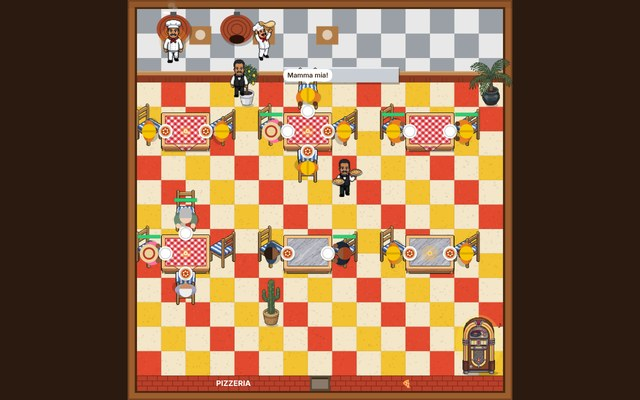
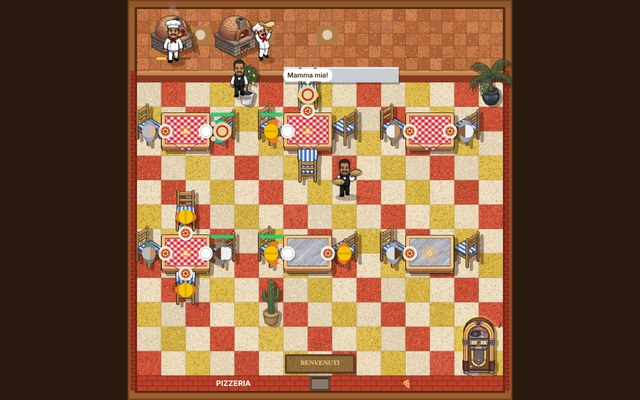
Pizzabaas: warmere sfeer (gespikkelde vloer, terracotta keuken, bakstenen muren, schaduwen, deurmat) en kassageluid
Claude-Session: https://claude.ai/code/session_01A1NZDKEqH4AvFTuhgNYDbP

Changed region(s): [[0.1875, 0.0, 0.8125, 0.99]]

diff --git a/pizzabaas.html b/pizzabaas.html
@@ -126,6 +126,7 @@ const schrijf = (k, v) => { try { localStorage.setItem(k, JSON.stringify(v)); } 
 const W = 15, H = 15, T = 48;         // 15 x 15 vloertegels (zoals in het oude spel), pixels per tegel
 const KEUKEN = 3;                     // rijen 0 t/m 2 zijn de keuken
 const DEUR = { x: 7, y: 15 };         // de deur zit in de onderste muur
+const MAT = { x: 6, y: 14, w: 3 };    // deurmat voor de deur: daar kan je niets neerzetten
 const DAG = 120;                      // seconden per werkdag
 const HUUR = 60, LOON = 15, PRIJS = 9, BAKTIJD = 5, ETEN = 8, GEDULD = 25;
 
@@ -246,7 +247,7 @@ const vrij = (x, y, w, h, behalve) => {
   for (let i = 0; i < w; i++) for (let j = 0; j < h; j++) {
     const a = x + i, b = y + j;
     if (a < 0 || a >= W || b < KEUKEN || b >= H) return false;
-    if (a == DEUR.x && b == DEUR.y - 1) return false; // voor de deur vrijhouden
+    if (b == MAT.y && a >= MAT.x && a < MAT.x + MAT.w) return false; // de deurmat vrijhouden
     for (const s of S.spullen) if (s != behalve && a >= s.x && a < s.x + SPUL[s.t].w && b >= s.y && b < s.y + SPUL[s.t].h) return false;
   }
   return true;
@@ -267,12 +268,15 @@ function gezellig(s) { // 1 tot 6 sterretjes
   if (S.spullen.some((p) => p.t == 'jukebox')) g += 1;
   return g;
 }
-// de jukebox is 2 x 2 geworden: staat hij in oude opslag ergens waar dat niet past, dan een vrije plek zoeken (of terugbetalen)
-for (const j of S.spullen.filter((s) => s.t == 'jukebox')) if (!vrij(j.x, j.y, 2, 2, j)) {
-  let plek = null;
-  for (let y = H - 2; y >= KEUKEN && !plek; y--) for (let x = W - 2; x >= 0 && !plek; x--) if (vrij(x, y, 2, 2, j)) plek = { x, y };
-  if (plek) Object.assign(j, plek); else { S.spullen.splice(S.spullen.indexOf(j), 1); S.geld += SPUL.jukebox.prijs; }
+// staat iets in oude opslag ergens waar het niet (meer) past (jukebox werd 2 x 2, deurmat erbij), dan een vrije plek zoeken (of terugbetalen)
+function repareer() {
+  for (const j of [...S.spullen]) { const d = SPUL[j.t]; if (vrij(j.x, j.y, d.w, d.h, j)) continue;
+    let plek = null;
+    for (let y = H - d.h; y >= KEUKEN && !plek; y--) for (let x = W - d.w; x >= 0 && !plek; x--) if (vrij(x, y, d.w, d.h, j)) plek = { x, y };
+    if (plek) Object.assign(j, plek); else { S.spullen.splice(S.spullen.indexOf(j), 1); S.geld += d.prijs; }
+  }
 }
+repareer();
 const gemGezellig = () => { const t = S.spullen.filter(isTafel); return t.length ? t.reduce((a, s) => a + gezellig(s), 0) / t.length : 0; };
 
 // ---------- de dag ----------
@@ -550,16 +554,30 @@ const achter = document.createElement('canvas'); achter.width = WW; achter.heigh
 (function tekenAchter() {
   const a = achter.getContext('2d');
   let zaad = 7; const rnd = () => (zaad = (zaad * 16807) % 2147483647) / 2147483647;
-  // vloer: tegeltjes van een half vakje, om en om wit met rood of geel
-  const t = T;
-  for (let y = KEUKEN; y < H; y++) for (let x = 0; x < W; x++) {
-    a.fillStyle = (x + y) % 2 ? '#f3e6c9' : (Math.floor(x / 2) + Math.floor(y / 2)) % 2 ? '#e2492f' : '#f2c230';
-    a.fillRect(x * t, y * t, t, t);
-    for (let k = 0; k < 30; k++) { a.fillStyle = `rgba(${rnd() < 0.5 ? '0,0,0' : '255,255,255'},${0.05 + rnd() * 0.08})`; a.fillRect(x * t + rnd() * t, y * t + rnd() * t, 2, 2); }
-    a.fillStyle = 'rgba(0,0,0,.08)'; a.fillRect(x * t, y * t + t - 1, t, 1); a.fillRect(x * t + t - 1, y * t, 1, t);
+  // vloer zoals het origineel: tegels van een vakje, om en om crème met rood of geel, doffe kleuren vol spikkels
+  const t = T, h = T;
+  const TEGELS = [['#ecdcbe', '#d6c09a', '#f6ead2'], ['#cf5338', '#a83a24', '#e2765a'], ['#dcb848', '#b8952a', '#ecd06e']]; // [kleur, donker, licht]
+  for (let j = KEUKEN; j < H; j++) for (let i = 0; i < W; i++) {
+    const [kl, dk, lc] = TEGELS[(i + j) % 2 ? 0 : (Math.floor(i / 2) + Math.floor(j / 2)) % 2 ? 1 : 2];
+    const x = i * h, y = j * h;
+    a.fillStyle = kl; a.fillRect(x, y, h, h);
+    a.fillStyle = `rgba(${rnd() < 0.5 ? '0,0,0' : '255,255,255'},${rnd() * 0.06})`; a.fillRect(x, y, h, h); // elke tegel net iets anders
+    for (let k = 0; k < 110; k++) { a.fillStyle = rnd() < 0.6 ? dk : lc; a.fillRect(x + Math.floor(rnd() * (h - 2)), y + Math.floor(rnd() * (h - 2)), 2, 2); }
+    a.fillStyle = 'rgba(70,35,15,.22)'; a.fillRect(x, y + h - 1, h, 1); a.fillRect(x + h - 1, y, 1, h); // voegen
   }
-  // keuken: grijs-witte tegels
-  for (let y = 0; y < KEUKEN; y++) for (let x = 0; x < W; x++) { a.fillStyle = (x + y) % 2 ? '#e8e8e8' : '#9aa0a6'; a.fillRect(x * t, y * t, t, t); }
+  // deurmat voor de deur (daar mag niets staan: MAT)
+  a.fillStyle = 'rgba(0,0,0,.25)'; a.fillRect(MAT.x * T + 6, MAT.y * T + 10, MAT.w * T - 6, T - 12);
+  a.fillStyle = '#5a3f22'; a.fillRect(MAT.x * T + 3, MAT.y * T + 6, MAT.w * T - 6, T - 10);
+  a.fillStyle = '#8f6a3c'; a.fillRect(MAT.x * T + 7, MAT.y * T + 10, MAT.w * T - 14, T - 18);
+  for (let k = 0; k < 500; k++) { a.fillStyle = rnd() < 0.5 ? '#7a5730' : '#a37d4a'; a.fillRect(MAT.x * T + 7 + rnd() * (MAT.w * T - 16), MAT.y * T + 10 + rnd() * (T - 20), 2, 1); }
+  a.fillStyle = '#f2d27a'; a.font = 'bold 13px Georgia, serif'; a.textAlign = 'center'; a.fillText('BENVENUTI', (MAT.x + MAT.w / 2) * T, MAT.y * T + T / 2 + 3);
+  // keuken: kleine terracotta tegeltjes
+  for (let j = 0; j < KEUKEN * 2; j++) for (let i = 0; i < W * 2; i++) {
+    const x = i * T / 2, y = j * T / 2, d = T / 2; a.fillStyle = (i + j) % 2 ? '#b8683c' : '#c97a48'; a.fillRect(x, y, d, d);
+    a.fillStyle = `rgba(${rnd() < 0.5 ? '0,0,0' : '255,255,255'},${rnd() * 0.08})`; a.fillRect(x, y, d, d);
+    for (let k = 0; k < 14; k++) { a.fillStyle = rnd() < 0.6 ? '#9c5530' : '#d8925f'; a.fillRect(x + Math.floor(rnd() * (d - 2)), y + Math.floor(rnd() * (d - 2)), 2, 2); }
+    a.fillStyle = 'rgba(60,25,10,.35)'; a.fillRect(x, y + d - 1, d, 1); a.fillRect(x + d - 1, y, 1, d);
+  }
   // werkbanken met deeg en meel
   for (let i = 0; i < 3; i++) { const [bx, by] = BANK(i); a.fillStyle = '#b07a45'; a.fillRect((bx - 0.45) * T, (by - 1.3) * T, 0.9 * T, 0.75 * T); a.fillStyle = 'rgba(255,255,255,.6)'; a.beginPath(); a.arc(bx * T, (by - 0.95) * T, 10, 0, 7); a.fill(); }
   // toonbank: houten blad op bakstenen
@@ -647,6 +665,7 @@ function figuur(img, p, bijzonder, rug, achter) {
     }
   }
   const h = 1.85 * T, w = h * sw / SH;
+  g.fillStyle = 'rgba(40,15,5,.28)'; g.beginPath(); g.ellipse(7, 5, w * 0.3, 7, 0, 0, 7); g.fill(); // schaduw onder de voeten
   g.save(); if (spiegel) g.scale(-1, 1);
   if (achter) { g.save(); g.translate(0, 6); g.scale(h / SH, h / SH); achter(); g.restore(); } // iets achter het figuurtje (in vakjes-pixels, voeten op y = 0)
   g.drawImage(img, f * sw, 0, sw, SH, -w / 2, -h + 6, w, h);
@@ -691,13 +710,19 @@ function teken(nu) {
   g.strokeStyle = 'rgba(0,0,0,.18)'; g.lineWidth = 1; for (let i = 0; i < 6; i++) { g.beginPath(); g.moveTo(-RAND, -RAND + 3 + i * 2.5); g.lineTo(WW + RAND, -RAND + 3 + i * 2.5); g.stroke(); }
   g.fillStyle = '#4a2810'; g.fillRect(-4, -4, WW + 8, WH + 8);
   g.drawImage(achter, 0, 0);
+  // bakstenen muren links en rechts van de zaal (in de binnenrand van het kader)
+  for (const mx of [-13, WW]) {
+    g.fillStyle = '#9c3522'; g.fillRect(mx, KEUKEN * T - 22, 13, WH - KEUKEN * T + 22);
+    g.fillStyle = '#6e1f10'; for (let y = KEUKEN * T - 22, r = 0; y < WH; y += 8, r++) { g.fillRect(mx, y, 13, 1); g.fillRect(mx + (r % 2 ? 4 : 9), y, 1, 8); }
+    g.fillStyle = 'rgba(0,0,0,.25)'; g.fillRect(mx == WW ? WW : -3, KEUKEN * T - 22, 3, WH - KEUKEN * T + 22); // schaduw langs de vloer
+  }
   // ovens: stenen koepels met vuur
   const ovs = modus == 'inrichten' ? Array.from({ length: S.ovens }, (_, i) => maakOven(i)) : ovens;
   for (const o of ovs) {
     if (OVENS.complete && OVENS.naturalWidth) { // Gemini-oven: 0 uit, 1 met vuur (bakken), 2 pizza op de schep (inschuiven)
       const w = 1.9 * T, x0 = o.x * T - w / 2, y0 = 1.95 * T - w, f = o.fase == 'bak' ? 1 : o.fase == 'inschuiven' ? 2 : 0;
       if (f == 1) { g.fillStyle = `rgba(255,150,40,${0.18 + Math.sin(nu / 90) * 0.06})`; g.beginPath(); g.arc(x0 + w * 0.6, y0 + w * 0.6, w * 0.42, 0, 7); g.fill(); }
-      g.drawImage(OVENS, f * 150, 0, 150, 150, x0, y0, w, w);
+      metSchaduw(OVENS, f * 150, 0, 150, 150, x0, y0, w, w);
       if (f == 1) {
         g.fillStyle = 'rgba(0,0,0,.35)'; g.fillRect(x0 + 12, y0 + w + 1, w - 24, 5); g.fillStyle = '#ffd23f'; g.fillRect(x0 + 12, y0 + w + 1, (w - 24) * Math.min(1, o.t / (BAKTIJD - DEEG)), 5); // hoe lang nog
         for (let k = 0; k < 3; k++) { const fr = ((nu / 900 + k / 3) % 1); g.fillStyle = `rgba(200,200,200,${0.45 * (1 - fr)})`; g.beginPath(); g.arc(x0 + w * 0.52 + Math.sin(fr * 6 + k) * 4, y0 + w * 0.1 - fr * 22, 4 + fr * 6, 0, 7); g.fill(); }
@@ -771,8 +796,8 @@ function stoel(x, y, hoek) { // van bovenaf: houten stoeltje met gestreepte zitt
 function tekenKlein(s, nu) {
   const x = 0, y = 0;
   if (s.t == 'plant' && PLANTEN.complete && PLANTEN.naturalWidth) { // Gemini-planten: 0 plantje, 1 palm, 2 citroenboompje, 3 cactus (s.v)
-    const k = 0.77; g.fillStyle = 'rgba(0,0,0,.2)'; g.beginPath(); g.ellipse(35, 60, 16, 5, 0, 0, 7); g.fill();
-    g.drawImage(PLANTEN, (s.v || 0) * 150, 0, 150, 160, 32 - 75 * k, 62 - 160 * k, 150 * k, 160 * k);
+    const k = 0.77;
+    metSchaduw(PLANTEN, (s.v || 0) * 150, 0, 150, 160, 32 - 75 * k, 62 - 160 * k, 150 * k, 160 * k, 8);
     return;
   }
   if (s.t == 'plant') {
@@ -784,9 +809,8 @@ function tekenKlein(s, nu) {
   }
   if (s.t == 'jukebox' && JUKEBOX.complete && JUKEBOX.naturalWidth) { // Gemini-jukebox recht van voren (pizza/jukebox-gemini.jpg), 96 x 165
     const h = 74, w = h * 96 / 165, x0 = 32 - w / 2, y0 = 62 - h; // in het vakje van 64 x 64 (= 2 x 2 tegels)
-    g.fillStyle = 'rgba(0,0,0,.22)'; g.beginPath(); g.ellipse(34, 61, w / 2 + 2, 4, 0, 0, 7); g.fill();
     if (modus != 'inrichten') { g.fillStyle = `rgba(255,${180 + Math.sin(nu / 200) * 60},80,.25)`; g.beginPath(); g.ellipse(32, y0 + h * 0.45, w * 0.7, h * 0.5, 0, 0, 7); g.fill(); }
-    g.drawImage(JUKEBOX, x0, y0, w, h);
+    metSchaduw(JUKEBOX, 0, 0, 96, 166, x0, y0, w, h, 4);
     if (modus != 'inrichten') { g.fillStyle = '#3a2414'; g.font = '12px system-ui'; g.textAlign = 'center'; g.fillText('♪', 32 + w / 2 + 6, y0 + 10 + Math.sin(nu / 200) * 4); }
     return;
   }
@@ -806,7 +830,20 @@ const OVENS = new Image(); OVENS.src = 'pizza/ovens.png'; // pizza/keuken-gemini
 const PLANTEN = new Image(); PLANTEN.src = 'pizza/planten.png'; // pizza/planten-gemini.jpg, bovenste rij, vakjes van 150 x 160
 const JUKEBOX = new Image(); JUKEBOX.src = 'pizza/jukebox.png';
 const STOELEN = new Image(); STOELEN.src = 'pizza/stoelen.png';
-function gemStoel({ sx, sy, kant }) { const k = 0.5; g.drawImage(STOELEN, kant * 110, 0, 110, 170, sx * T - 55 * k, sy * T - 110 * k, 110 * k, 170 * k); }
+function gemStoel({ sx, sy, kant }) { const k = 0.5; metSchaduw(STOELEN, kant * 110, 0, 110, 170, sx * T - 55 * k, sy * T - 110 * k, 110 * k, 170 * k); }
+// schaduw zoals in het origineel: hetzelfde plaatje donker en doorzichtig, iets naar rechtsonder (licht van linksboven).
+// Van elk vel wordt één keer een schaduwversie gemaakt (img.schaduw).
+function schaduwVel(img) {
+  if (img.schaduw || !img.complete || !img.naturalWidth) return img.schaduw;
+  const c = document.createElement('canvas'); c.width = img.naturalWidth; c.height = img.naturalHeight;
+  const x = c.getContext('2d'); x.drawImage(img, 0, 0); x.globalCompositeOperation = 'source-in'; x.fillStyle = 'rgba(45,18,6,.4)'; x.fillRect(0, 0, c.width, c.height);
+  return img.schaduw = c;
+}
+function metSchaduw(img, sx, sy, sw, sh, dx, dy, dw, dh, af = 8) { // af = hoe ver de schaduw valt (in de huidige eenheden)
+  const sch = schaduwVel(img); if (!sch) return;
+  g.drawImage(sch, sx, sy, sw, sh, dx + af, dy + af * 0.7, dw, dh);
+  g.drawImage(img, sx, sy, sw, sh, dx, dy, dw, dh);
+}
 const TAFELS = new Image(); TAFELS.src = 'pizza/tafels.png';
 const KLEDEN = new Image(); KLEDEN.src = 'pizza/kleden.png'; // pizza/tafels-gemini.jpg, onderste rij: 4 tafels van 192 x 156
 function tekenSpul(s, nu, zitten) {
@@ -821,9 +858,8 @@ function tekenSpul(s, nu, zitten) {
   if (TAFELS.complete && TAFELS.naturalWidth) { // Gemini-tafel: 0 marmer, 1 rood-wit geruit kleed (2-3 wit kleed, voor later)
     const w = 2 * T, h = w * 156 / 192, x0 = cx - w / 2, y0 = cy - h / 2;
     const kl = kleedVan(s);
-    g.fillStyle = 'rgba(0,0,0,.22)'; if (kl && KLEED[kl].rond) { g.beginPath(); g.ellipse(cx + 4, cy + 8, w * 0.46, h * 0.5, 0, 0, 7); g.fill(); } else g.fillRect(x0 + 6, y0 + 8, w - 6, h - 6);
-    if (kl && KLEDEN.complete && KLEDEN.naturalWidth) g.drawImage(KLEDEN, KLEED[kl].i * 192, 0, 192, 192, x0, y0 + h - w, w, w); // kleed hangt wat verder naar beneden
-    else g.drawImage(TAFELS, (kl ? 1 : 0) * 192, 0, 192, 156, x0, y0, w, h);
+    if (kl && KLEDEN.complete && KLEDEN.naturalWidth) metSchaduw(KLEDEN, KLEED[kl].i * 192, 0, 192, 192, x0, y0 + h - w, w, w); // kleed hangt wat verder naar beneden
+    else metSchaduw(TAFELS, (kl ? 1 : 0) * 192, 0, 192, 156, x0, y0, w, h);
   } else {
   const tx = cx - T + 4, ty = cy - T + 4, tw = 2 * T - 8, th = 2 * T - 8;
   g.fillStyle = 'rgba(0,0,0,.25)'; g.fillRect(tx + 4, ty + 5, tw, th);
@@ -1084,7 +1120,22 @@ function meld(t) { const m = $('melding'); m.textContent = t; m.style.opacity = 
 let ac = null;
 function wekGeluid() { if (!ac) { try { ac = new (window.AudioContext || window.webkitAudioContext)(); } catch (e) {} } if (ac && ac.state == 'suspended') ac.resume(); }
 function ding(f, d, type = 'sine', v = 0.08) { if (!ac) return; const o = ac.createOscillator(), gn = ac.createGain(); o.type = type; o.frequency.value = f; gn.gain.setValueAtTime(v, ac.currentTime); gn.gain.exponentialRampToValueAtTime(0.0001, ac.currentTime + d); o.connect(gn).connect(ac.destination); o.start(); o.stop(ac.currentTime + d); }
-const kassa = () => { ding(1318, 0.08, 'square', 0.04); setTimeout(() => ding(1760, 0.15, 'square', 0.04), 70); };
+// kassa: klak van de la, een belletje en rinkelende muntjes (allemaal zelf gemaakt met Web Audio)
+let ruis = null;
+function klak(t0, d, freq, v) { // kort stukje gefilterde ruis
+  if (!ruis) { ruis = ac.createBuffer(1, ac.sampleRate * 0.3, ac.sampleRate); const k = ruis.getChannelData(0); for (let i = 0; i < k.length; i++) k[i] = Math.random() * 2 - 1; }
+  const b = ac.createBufferSource(), f = ac.createBiquadFilter(), gn = ac.createGain();
+  b.buffer = ruis; f.type = 'bandpass'; f.frequency.value = freq; f.Q.value = 1.2;
+  gn.gain.setValueAtTime(v, t0); gn.gain.exponentialRampToValueAtTime(0.0001, t0 + d);
+  b.connect(f).connect(gn).connect(ac.destination); b.start(t0); b.stop(t0 + d);
+}
+function toon(t0, f, d, v, type = 'sine') { const o = ac.createOscillator(), gn = ac.createGain(); o.type = type; o.frequency.value = f; gn.gain.setValueAtTime(v, t0); gn.gain.exponentialRampToValueAtTime(0.0001, t0 + d); o.connect(gn).connect(ac.destination); o.start(t0); o.stop(t0 + d); }
+const kassa = () => {
+  if (!ac) return; const t = ac.currentTime;
+  klak(t, 0.06, 1800, 0.25); klak(t + 0.05, 0.12, 700, 0.18); // de la schiet open
+  for (const [f, v] of [[2093, 0.06], [2637, 0.035], [4186, 0.02]]) toon(t + 0.04, f, 0.9, v); // ting!
+  for (let i = 0; i < 4; i++) { const tt = t + 0.16 + i * 0.05 + Math.random() * 0.03; toon(tt, 3200 + Math.random() * 2400, 0.07, 0.025, 'triangle'); klak(tt, 0.03, 6000, 0.05); } // muntjes
+};
 const plof = () => ding(220, 0.12, 'triangle', 0.1);
 const boos = () => { ding(200, 0.2, 'sawtooth', 0.05); setTimeout(() => ding(150, 0.3, 'sawtooth', 0.05), 150); };
 

diff --git a/pizza/CLAUDE.md b/pizza/CLAUDE.md
@@ -14,8 +14,8 @@ van max. 2 borden, één per hand; bij 4 personen loopt een ober twee keer (of g
 (`gezellig`: kleedje, kaarsje, planten dichtbij, jukebox). Geduld telt per tafel (`groep.t`, `GEDULD` + 7 s per extra persoon) tot een ober
 de borden komt halen; te lang = de hele tafel boos weg. Obers en klanten lopen om tafels, stoelen, planten en de jukebox heen (`loopNaar` → `zoekPad`: A* op een raster van halve tegels, `bezet` (opnieuw bij openen), daarna strak getrokken; de koks lopen nog rechtdoor). Reputatie `S.rep` bepaalt hoe vaak er
 klanten komen. Aan het eind huur (`HUUR`) en loon, en een dagoverzicht (📊 Gisteren = `laatsteDag`). Uiterlijk zoals het origineel:
-achtergrond vooraf getekend (`achter`: rood-geel-wit geblokte vloer, grijs-witte keuken, toonbank, bakstenen muur met deur), houten kader
-(`RAND`), stoelen uit `pizza/stoelen.png` (`STOELEN`, `gemStoel`, uit `pizza/stoelen2-gemini.jpg`: 0 leuning boven = stoel boven de tafel, 1 van achteren = onder de tafel (na de tafel getekend), 2 leuning links, 3 leuning rechts; `stoel` = oude getekende stoel als het plaatje niet laadt), planten uit `pizza/planten.png` (`PLANTEN`, soort `s.v`: 0 plantje, 1 palm, 2 citroenboompje, 3 cactus; nieuwe planten om de beurt, wisselen met 🔄 in het menu), jukebox recht van voren uit `pizza/jukebox.png` (`JUKEBOX`, uit `pizza/jukebox-gemini.jpg`), tafels uit `pizza/tafels.png` (`TAFELS`, Gemini, onderste rij van `pizza/tafels-gemini.jpg`: 0 marmer, 1 rood-wit geruit = met kleedje, 2 wit kleed met kaars, 3 wit met kaars en wijnfles; 2-3 nog niet gebruikt, bedoeld voor meubelstijlen; het kaarsje tekent het spel zelf), borden (`bord`), poppetjes van bovenaf met kijkrichting (`poppetje`, `kijk`).
+achtergrond vooraf getekend (`achter`: vloer van doffe rood/geel/crème tegels vol spikkels (`TEGELS`), keuken met kleine terracotta tegeltjes, toonbank, bakstenen muur met deur, deurmat BENVENUTI (`MAT`, daar mag niets staan; `repareer` verplaatst spullen die in oude opslag niet meer passen)), bakstenen muren links en rechts, houten kader
+(`RAND`); meubels en ovens met een schaduw naar rechtsonder (`metSchaduw`, schaduwvel per plaatje via `schaduwVel`), figuren met een schaduw onder de voeten; kassageluid = la, belletje en muntjes (`kassa`, `klak`, `toon`), stoelen uit `pizza/stoelen.png` (`STOELEN`, `gemStoel`, uit `pizza/stoelen2-gemini.jpg`: 0 leuning boven = stoel boven de tafel, 1 van achteren = onder de tafel (na de tafel getekend), 2 leuning links, 3 leuning rechts; `stoel` = oude getekende stoel als het plaatje niet laadt), planten uit `pizza/planten.png` (`PLANTEN`, soort `s.v`: 0 plantje, 1 palm, 2 citroenboompje, 3 cactus; nieuwe planten om de beurt, wisselen met 🔄 in het menu), jukebox recht van voren uit `pizza/jukebox.png` (`JUKEBOX`, uit `pizza/jukebox-gemini.jpg`), tafels uit `pizza/tafels.png` (`TAFELS`, Gemini, onderste rij van `pizza/tafels-gemini.jpg`: 0 marmer, 1 rood-wit geruit = met kleedje, 2 wit kleed met kaars, 3 wit met kaars en wijnfles; 2-3 nog niet gebruikt, bedoeld voor meubelstijlen; het kaarsje tekent het spel zelf), borden (`bord`), poppetjes van bovenaf met kijkrichting (`poppetje`, `kijk`).
 Paneel rechts (liggend) of onder (staand): zwart schermpje `#lcd` (`balk`) en een 3x3 knoppenraster `#raster` (`tekenKnoppen`).
 Ovens uit `pizza/ovens.png` (`OVENS`, Gemini: 0 uit (van de oven met vuur, vuur weggepoetst), 1 met vuur = bakken, 2 pizza op de schep = inschuiven). Per oven een kok (`maakOven`, `stapOven`): deeg opgooien aan de werkbank (`BANK`, `DEEG`), inschuiven, bakken, op het uitgiftepunt zetten
 (`UITGIFTE`: stalen plaat met belletje op de toonbank, direct rechts van de laatste werkbank), daar haalt een ober hem op. Kok en ober zijn eigen Gemini-ontwerpen, plaatjes van 113x192 naast elkaar; welk plaatje wat is staat per vel in `KOK.vel` / `OBER.vel` (`figuur`). `pizza/kok.png` (15): 0-1 staan, 2-8 loopcyclus opzij met de neus naar rechts (gespiegeld = links; ook gebruikt voor lopen naar voren, want die cyclus is er nog niet), 9 deeg opgooien (van het oude vel, broek wit gemaakt), 10 op de rug, 11-14 lopen naar achteren; uit `pizza/kok2-gemini.jpg` (witte broek) + `pizza/kok-gemini.jpg`. `pizza/ober.png`: zelfde indeling, 9 = stolp optillen bij het opdienen (`serveer`); uit `pizza/ober2-gemini.jpg` + de stolp van `pizza/ober-gemini.jpg`. Sta- en rugplaatjes zijn verkleind tot de hoogte van de loopplaatjes (Gemini tekent die rijen niet even groot). Met borden: `pizza/ober-borden.png` (`OBER_BORD`, vakjes van 180 breed, uit `pizza/ober-borden-gemini.jpg`): 0 staan van voren, 1-7 lopen opzij, 8-11 lopen naar achteren, steeds één bord rechts; 12-19 met twee borden (uit `pizza/ober-borden2-gemini.jpg`: 12 staan, 13-19 opzij, maar 14/16/17 missen een bord en worden overgeslagen: `OBER_TWEE`); van achteren met twee borden tekent `tweedeBord` het tweede. Uitknippen met `extra/knip_figuren.py` (raken figuren elkaar, zoals bij de borden: per losse vorm knippen). Opslag per speler in `pizzabaas:<naam>`. `#tegel` = plaatje.

diff --git a/pizza/PLAN.md b/pizza/PLAN.md
@@ -45,11 +45,15 @@ Gedaan (25 okt): de ober (en de klanten) lopen om de tafels heen in plaats van e
 `origineel-4-zaak-steen.jpg` en ons eigen `ons-25okt.jpg`)
 - Tafels en stoelen **los neerzetten** zoals in het origineel (stoel draait naar de tafel ernaast), dan kan je ook een hoekje
   met 3 stoelen maken; stoelen tegen de tafel aan, niet met een gat ertussen.
+  Meerdere tafels: klein (2), vierkant (4), lang (6 stoelen eromheen), zoals in het origineel. De fontein moest je in het
+  origineel kopen (als versiering).
 - Keuken: max. 2 pizzabakkers, die er **verschillend** uitzien; een oven links en een rechts (ander pand: rechtsboven/-onder).
 - Ingang: deurmat bij de deur waar je niets neer kunt zetten; iets meer bij de ingang (kapstok, lessenaar).
 - Warmer en voller: andere vloer (origineel: kleinere, gevlekte tegels of grijze kasseien), schaduwen, bakstenen muren,
   wijnrek en kasten tegen de muur, lampen.
 - Geluid van geld is te simpel: mooier kassageluid.
+- **Stap A gedaan** (25 okt): doffe gespikkelde vloer (zelfde tegelgrootte als het origineel; halve tegels was te druk),
+  terracotta keuken, bakstenen zijmuren, schaduwen, deurmat, kassageluid. Volgende: B (tafels en stoelen los), C (keuken), D (muren).
 
 ## Klanten als eigen figuren (stap 2 hieronder), afgesproken 25 okt
 - `pizza/kind-gemini.jpg` (zonder opdracht): peuter met feesthoedje en slab: staan, lopen, eten (pizzapunt), met eten gooien,
